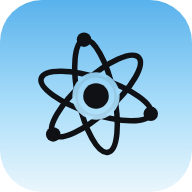
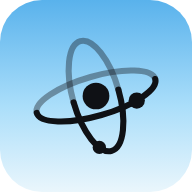
Round 7: new atom mark, softer board colours, drag and move-out for Brainly links and folders, make a task from a link or file
Claude-Session: https://claude.ai/code/session_01VyUsYKRK97fG4vrZNmknrH

Changed region(s): [[0.1562, 0.1562, 0.8438, 0.8125], [0.5312, 0.4375, 0.5625, 0.4688], [0.4375, 0.5312, 0.4688, 0.5625]]

diff --git a/js/brainly.js b/js/brainly.js
@@ -13,6 +13,7 @@ import { listen, canListen } from './speech.js';
 import { crunch } from './sound.js';
 import { summaryFor, ensureSummary, noteText } from './summaries.js';
 import * as google from './google.js';
+import { addTaskFrom } from './taskly.js';
 
 let root, canvas, dash, searchInput, results, peekEl = null, hovered = null;
 const NOTE = 118, FOLDER_W = 150, FOLDER_H = 112;
@@ -140,7 +141,7 @@ function renderDash() {
   const looseItems = links(null).filter(c => matches(c, q));
   const loose = h('div', { class: 'link-list loose', dataset: { drop: 'link-list', accept: 'card', lfolder: '' }, 'data-list': '' }, looseItems.map(linkEl));
   if (!looseItems.length && !q) loose.append(h('p', { class: 'empty-hint' }, 'Paste a link, or drop a PDF or text file here.'));
-  const stack = h('div', { class: 'lf-stack', dataset: { drop: 'lfolder-stack', accept: 'lfolder' }, 'data-list': '' },
+  const stack = h('div', { class: 'lf-stack', dataset: { drop: 'lfolder-stack', accept: 'lfolder', parent: '' }, 'data-list': 'grid' },
     lfChildren(null).filter(f => lfMatches(f, q)).map(linkFolderEl));
   dash.replaceChildren(
     h('div', { class: 'dash-head' }, h('h2', {}, 'My links'),
@@ -160,7 +161,8 @@ function linkEl(c) {
   // SD-F4 / SD-L3: a click previews; the preview has the Open button.
   el.addEventListener('click', e => { if (!e.target.closest('button')) previewItem(el, c.id); });
   el.addEventListener('keydown', e => { if (e.key === 'Enter') previewItem(el, c.id); });
-  el.append(h('button', { class: 'card-del', 'aria-label': 'Delete', title: 'Delete (you can Undo)', onclick: e => { e.stopPropagation(); trashCard(c.id); } }, icon('x')));
+  el.append(h('button', { class: 'link-task', 'aria-label': `Make a task: ${taskTitleFor(c)}`, title: `Make a task: “${taskTitleFor(c)}”`, onclick: e => { e.stopPropagation(); makeTaskFrom(c); } }, icon('checklist')),
+    h('button', { class: 'card-del', 'aria-label': 'Delete', title: 'Delete (you can Undo)', onclick: e => { e.stopPropagation(); trashCard(c.id); } }, icon('x')));
   return el;
 }
 
@@ -227,7 +229,7 @@ function openLinkFolder(fid, fromEl) {
     // Folders and files sit in their own labelled rows, and folders look like folders (tab, colour, count).
     const folderRow = subs.length ? h('div', { class: 'glass-section' },
       h('span', { class: 'glass-section-label' }, icon('folder'), `Folders · ${subs.length}`),
-      h('div', { class: 'glass-grid glass-folders' }, subs.map(x => {
+      h('div', { class: 'glass-grid glass-folders', dataset: { drop: 'lfolder-stack', accept: 'lfolder', parent: f.id }, 'data-list': 'grid' }, subs.map(x => {
         const n = links(x.id).length + lfChildren(x.id).length;
         const t = h('div', { class: 'glass-item glass-sub', tabindex: 0, title: `${x.name}: ${lfCount(x)}`, dataset: { drag: 'lfolder', id: x.id, drop: 'lf-into', accept: 'card lfolder', into: x.id } },
           h('span', { class: 'folder-shape', style: { '--fc': folderTint(x) } }, h('span', { class: 'folder-emoji' }, lfEmoji(x)), n ? h('span', { class: 'folder-badge' }, n) : null),
@@ -236,7 +238,7 @@ function openLinkFolder(fid, fromEl) {
         t.addEventListener('keydown', e => { if (e.key === 'Enter') { glass.fid = x.id; paint(); } });
         return t;
       }))) : null;
-    const grid = h('div', { class: 'glass-grid', dataset: { drop: 'link-list', accept: 'card', lfolder: f.id }, 'data-list': '' },
+    const grid = h('div', { class: 'glass-grid', dataset: { drop: 'link-list', accept: 'card', lfolder: f.id }, 'data-list': 'grid' },
       items.map(c => {
         const t = h('div', { class: 'glass-item', tabindex: 0, dataset: { drag: 'card', id: c.id }, title: c.meta?.url || c.title },
           h('span', { class: 'glass-icon' }, favicon(c)), h('span', { class: 'glass-label' }, c.title));
@@ -252,11 +254,15 @@ function openLinkFolder(fid, fromEl) {
         h('button', { class: 'glass-close', type: 'button', 'aria-label': 'Close folder', onclick: () => closeGlass() }, icon('x'))),
       title,
       h('p', { class: 'glass-sub-line' }, `${lfCount(f)}${parent ? ` · in ${lfPath(parent)}` : ''}`),
+      // While something is being dragged, this strip takes it back out a level.
+      h('div', { class: 'glass-out', dataset: { drop: 'lf-out', accept: 'card lfolder', to: f.parentId && parent ? parent.id : '' } },
+        icon('chevL'), `Drop here to move out to ${parent ? parent.name : 'My links'}`),
       h('div', { class: 'glass-scroll' }, folderRow, fileRow),
       h('div', { class: 'glass-actions' },
         h('button', { class: 'glass-btn', type: 'button', onclick: () => fileIn.click() }, icon('upload'), 'Upload'),
         h('button', { class: 'glass-btn', type: 'button', onclick: () => addLinkFolder(f.id) }, icon('folder'), 'New folder'),
         h('button', { class: 'glass-btn', type: 'button', onclick: e => pickEmoji(e.currentTarget, v => saveLinkFolder(f.id, { emoji: v })) }, h('span', {}, lfEmoji(f)), 'Icon'),
+        parent ? h('button', { class: 'glass-btn', type: 'button', title: `Move this folder out of ${parent.name}`, onclick: () => { const to = lfById(parent.parentId) ? parent.parentId : null; saveLinkFolder(f.id, { parentId: to }); toast(`Moved ${f.name} to ${to ? lfById(to).name : 'My links'}`); } }, icon('chevL'), 'Move out') : null,
         h('button', { class: 'glass-btn danger', type: 'button', onclick: () => { const ff = lfById(glass.fid); closeGlass(); if (ff) deleteLinkFolder(ff); } }, icon('trash'), 'Delete')),
       fileIn);
   };
@@ -291,6 +297,7 @@ function moveIntoLinkFolder(id, lfid, index) {
 registerDrop('link-list', ({ id, data, index }) => moveIntoLinkFolder(id, data.lfolder || null, index));
 // Drop a link on a folder to file it; drop a folder on a folder to nest it.
 registerDrop('lf-into', {
+  hit: ({ kind, x, y, rect }) => kind !== 'lfolder' || (x > rect.left + rect.width * 0.22 && x < rect.right - rect.width * 0.22 && y > rect.top + rect.height * 0.2 && y < rect.bottom - rect.height * 0.2),
   accepts: ({ kind, id, data }) => kind !== 'lfolder' || (id !== data.into && !lfDescendants(id).includes(data.into)),
   drop: ({ kind, id, data }) => {
     if (kind === 'lfolder') { saveLinkFolder(id, { parentId: data.into }); toast(`Moved into ${lfById(data.into)?.name}`); return; }
@@ -298,18 +305,29 @@ registerDrop('lf-into', {
     toast(`Filed in ${lfById(data.into)?.name}`);
   },
 });
-// SD-F5: top-level folders reorder by drag (dropping here also takes a folder back to the top level).
-registerDrop('lfolder-stack', ({ kind, id, index }) => {
+// SD-F5: folders reorder by drag, in the column and inside a glass folder. Dropping in the column's
+// folder grid also takes a folder back to the top level.
+registerDrop('lfolder-stack', ({ kind, id, data, index }) => {
   if (kind !== 'lfolder') return false;
+  const parentId = data.parent || null;
+  if (parentId && (parentId === id || lfDescendants(id).includes(parentId))) return false;
   const list = linkFolders();
   const moving = list.find(f => f.id === id);
   if (!moving) return false;
   const rest = list.filter(f => f.id !== id);
-  const tops = rest.filter(f => !f.parentId);
-  const before = tops[index ?? tops.length];
-  const at = before ? rest.indexOf(before) : rest.length;
-  rest.splice(at, 0, { ...moving, parentId: null });
+  const sibs = rest.filter(f => (f.parentId && lfById(f.parentId) ? f.parentId : null) === parentId);
+  const before = sibs[index ?? sibs.length];
+  const at = before ? rest.indexOf(before) : (sibs.length ? rest.indexOf(sibs.at(-1)) + 1 : rest.length);
+  rest.splice(at, 0, { ...moving, parentId });
   store.set('linkFolders', rest);
+  if ((moving.parentId || null) !== parentId) toast(`Moved ${moving.name} to ${parentId ? lfById(parentId)?.name : 'My links'}`);
+});
+// Out of a folder, one level up (the strip at the top of the glass folder).
+registerDrop('lf-out', ({ kind, id, data }) => {
+  const to = data.to || null;
+  if (kind === 'lfolder') saveLinkFolder(id, { parentId: to });
+  else moveIntoLinkFolder(id, to, null);
+  toast(`Moved out to ${to ? lfById(to)?.name : 'My links'}`);
 });
 
 function addLink(raw) {
@@ -410,6 +428,7 @@ function previewItem(anchor, id) {
     rows.push(h('div', { class: 'muted small' }, `${m.pdf.name} · ${fmtSize(m.pdf.size || 0)} · saved on this device`),
       h('div', { class: 'peek-actions' },
         h('button', { class: 'btn sm primary', onclick: () => openPdf(m.pdf) }, icon('external'), 'Open PDF'),
+        h('button', { class: 'chip', onclick: () => { closePopovers(); openMoveDialog(id); } }, icon('move'), 'Move to…'),
         m.driveUrl ? h('a', { class: 'chip', href: m.driveUrl, target: '_blank', rel: 'noopener noreferrer' }, icon('external'), 'Open in Drive')
           : h('button', { class: 'chip', onclick: async () => {
             status.textContent = 'Uploading to Google Drive…';
@@ -429,9 +448,27 @@ function previewItem(anchor, id) {
         h('button', { class: 'chip', onclick: () => { closePopovers(); openMoveDialog(id); } }, icon('move'), 'Move to…')));
   } else {
     rows.push(h('div', { class: 'peek-text' }, (c.description || '').slice(0, 700) || 'Empty file.'),
-      h('div', { class: 'peek-actions' }, h('button', { class: 'chip', onclick: () => { closePopovers(); openEditor(id, { title: 'Text file' }); } }, icon('pencil'), 'Open')));
+      h('div', { class: 'peek-actions' }, h('button', { class: 'chip', onclick: () => { closePopovers(); openEditor(id, { title: 'Text file' }); } }, icon('pencil'), 'Open'),
+        h('button', { class: 'chip', onclick: () => { closePopovers(); openMoveDialog(id); } }, icon('move'), 'Move to…')));
   }
+  const taskName = taskTitleFor(c);
+  rows.push(h('div', { class: 'peek-task' },
+    h('button', { class: 'chip task-chip', title: `Adds “${taskName}” to To do in Taskly`, onclick: () => { closePopovers(); makeTaskFrom(c); } }, icon('checklist'), 'Make a task'),
+    h('span', { class: 'muted small' }, `“${taskName}”`)));
   popover(anchor, h('div', { class: 'item-peek' }, h('div', { class: 'item-peek-head' }, favicon(c), title), ...rows), { className: 'item-peek-pop' });
+}
+/** A task named for the thing: PDFs and files get reviewed, links get read. */
+function taskTitleFor(c) {
+  const kind = kindOf(c);
+  const name = (c.title || c.meta?.host || 'this').trim();
+  return kind === 'link' ? `Read article from ${name}` : `Review ${name}`;
+}
+function makeTaskFrom(c) {
+  const m = c.meta || {};
+  const description = m.url || (m.pdf ? `PDF in Brainly: ${m.pdf.name}` : m.upload ? `File in Brainly: ${m.upload.name}` : `From Brainly: ${c.title}`);
+  const t = addTaskFrom({ title: taskTitleFor(c), description, meta: { fromCardId: c.id, ...(m.url ? { url: m.url } : {}) } });
+  if (!t) return;
+  toast(`Added to Taskly: ${t.title}`, { action: 'Show', onAction: () => revealCard(t.id) });
 }
 async function openPdf(pdf) {
   const blob = await store.getFile(pdf.fileId);

diff --git a/styles.css b/styles.css
@@ -2285,23 +2285,23 @@ body.board-live, body.board-live * { cursor: grabbing !important; }
 
 /* ---------- Boardly, round 6: white boards, the pattern carries the category colour ---------- */
 .boardly .board-canvas {
-  background-color: #ffffff; border: 1.5px solid color-mix(in srgb, var(--tc) 45%, #e6e8ec);
+  background-color: #ffffff; border: 1px solid color-mix(in srgb, var(--tc) 22%, #e9ebee);
   background-image:
-    radial-gradient(circle, color-mix(in srgb, var(--tc) 78%, white) 1.5px, transparent 2px),
-    radial-gradient(90% 75% at 0% 0%, color-mix(in srgb, var(--tc) 12%, transparent), transparent 62%),
-    radial-gradient(70% 60% at 100% 100%, color-mix(in srgb, var(--tc) 8%, transparent), transparent 65%);
+    radial-gradient(circle, color-mix(in srgb, var(--tc) 34%, white) 1.3px, transparent 1.8px),
+    radial-gradient(90% 75% at 0% 0%, color-mix(in srgb, var(--tc) 6%, transparent), transparent 62%),
+    radial-gradient(70% 60% at 100% 100%, color-mix(in srgb, var(--tc) 4%, transparent), transparent 65%);
   background-size: 26px 26px, 100% 100%, 100% 100%;
   background-position: 13px 13px, 0 0, 0 0;
-  box-shadow: 0 1px 0 rgba(255, 255, 255, 0.8) inset, 0 18px 40px -30px color-mix(in srgb, var(--tc) 70%, black);
+  box-shadow: 0 1px 0 rgba(255, 255, 255, 0.8) inset, 0 18px 40px -32px color-mix(in srgb, var(--tc) 40%, rgba(17, 17, 17, 0.4));
 }
-.boardly .tile { border: 1px solid color-mix(in srgb, var(--ink) 12%, transparent); box-shadow: 0 1px 2px rgba(17, 17, 17, 0.06), 0 10px 22px -12px color-mix(in srgb, var(--tc) 55%, rgba(17, 17, 17, 0.5)); }
+.boardly .tile { border: 1px solid color-mix(in srgb, var(--ink) 12%, transparent); box-shadow: 0 1px 2px rgba(17, 17, 17, 0.06), 0 10px 22px -12px color-mix(in srgb, var(--tc) 30%, rgba(17, 17, 17, 0.45)); }
 .boardly .canvas-empty, .boardly .sel-hint { color: var(--muted); }
 .boardly .vtools { background: rgba(255, 255, 255, 0.96); box-shadow: 0 0 0 1px var(--line), 0 18px 36px -14px rgba(17, 17, 17, 0.35); }
 .boardly .vt-head { color: var(--faint); }
 .boardly .vt-label { color: var(--ink-2); }
 .boardly .vtool:hover, .boardly .vtool:focus-visible { background: var(--well); }
 /* Tags: the active one wears its board's colour */
-.boardly-tabs .tab.active { background: color-mix(in srgb, var(--tab-color) 16%, white); color: var(--ink); box-shadow: inset 0 0 0 1.5px var(--tab-color); }
+.boardly-tabs .tab.active { background: color-mix(in srgb, var(--tab-color) 10%, white); color: var(--ink); box-shadow: inset 0 0 0 1.5px color-mix(in srgb, var(--tab-color) 55%, white); }
 .boardly-tabs .tab.active .tab-dot { box-shadow: 0 0 0 3px color-mix(in srgb, var(--tab-color) 30%, transparent); }
 .boardly-tabs .tab.active .tab-x { color: var(--muted); }
 
@@ -2406,3 +2406,27 @@ body.board-live, body.board-live * { cursor: grabbing !important; }
 .folder-emoji { font-size: 22px; filter: drop-shadow(0 1px 1px rgba(0, 0, 0, 0.15)); }
 .folder-badge { position: absolute; right: -6px; top: -10px; min-width: 20px; height: 20px; padding: 0 5px; border-radius: 999px; display: grid; place-items: center; font-size: 11px; font-weight: 700; color: #fff; background: #0f1115; box-shadow: 0 0 0 2px rgba(255, 255, 255, 0.9); }
 .glass-sub:hover .folder-shape { transform: translateY(-1px); }
+
+/* ---------- Brainly, round 7: moving things around and out of folders ---------- */
+/* Grid lists mark the neighbour instead of inserting a line */
+.drop-before, .drop-after { position: relative; }
+.drop-before::after, .drop-after::after { content: ""; position: absolute; top: 6%; bottom: 6%; width: 3px; border-radius: 3px; background: var(--ink); pointer-events: none; z-index: 3; }
+.drop-before::after { left: -7px; }
+.drop-after::after { right: -7px; }
+/* A folder being dropped into lights up, so nesting is never a surprise */
+.lf-tile.drop-over, .glass-sub.drop-over .folder-shape { outline: 2px solid var(--ink); outline-offset: 3px; }
+.lf-tile.drop-over { transform: scale(1.03); }
+/* "Move out" strip in the glass folder: only there while you drag */
+.glass-out { display: none; align-items: center; justify-content: center; gap: 8px; padding: 12px; border-radius: 14px; border: 1.5px dashed color-mix(in srgb, var(--ink) 35%, transparent); color: var(--ink-2); font-weight: 600; font-size: 13px; background: rgba(255, 255, 255, 0.55); }
+.glass-out svg { width: 16px; height: 16px; }
+body.is-dragging .glass-out { display: flex; animation: outIn .18s var(--ease, ease) both; }
+.glass-out.drop-over { border-style: solid; border-color: var(--ink); background: #fff; color: var(--ink); }
+@keyframes outIn { from { opacity: 0; transform: translateY(-4px); } }
+/* Make a task: a quiet button on each row, and a line in the preview */
+.link-card .link-task { position: absolute; right: 30px; top: 50%; transform: translateY(-50%); width: 24px; height: 24px; border-radius: 8px; display: grid; place-items: center; color: var(--muted); background: #fff; border: 1px solid var(--line); opacity: 0; transition: opacity .15s; }
+.link-card .link-task svg { width: 14px; height: 14px; }
+.link-card:hover .link-task, .link-card:focus-within .link-task { opacity: 1; }
+.link-card .link-task:hover { color: var(--ink); border-color: var(--ink); }
+@media (hover: none) { .link-card .link-task { opacity: 1; } }
+.peek-task { display: flex; align-items: center; gap: 8px; flex-wrap: wrap; padding-top: 10px; margin-top: 4px; border-top: 1px solid var(--line); }
+.peek-task .muted { overflow: hidden; text-overflow: ellipsis; white-space: nowrap; max-width: 100%; }

diff --git a/js/dnd.js b/js/dnd.js
@@ -81,12 +81,16 @@ export function initDnd(navigate) {
     const stack = document.elementsFromPoint(drag.x, drag.y);
     for (const node of stack) {
       if (node.classList?.contains('drag-ghost') || drag.ghost.contains(node)) continue;
-      const z = node.closest?.('[data-drop]');
-      if (!z) continue;
-      const accept = (z.dataset.accept || 'card').split(' ');
-      if (!accept.includes(drag.kind)) continue;
-      if (z === drag.el || drag.el.contains(z)) continue;
-      return z;
+      // Walk outwards: a zone can pass the drop to the zone around it (spec.hit returns false),
+      // e.g. a folder only takes a folder in its middle, and its edges reorder the list instead.
+      let z = node.closest?.('[data-drop]');
+      while (z) {
+        const accept = (z.dataset.accept || 'card').split(' ');
+        const own = z === drag.el || drag.el.contains(z);
+        const spec = handlers.get(z.dataset.drop);
+        if (!own && accept.includes(drag.kind) && (!spec?.hit || spec.hit({ kind: drag.kind, id: drag.id, x: drag.x, y: drag.y, rect: z.getBoundingClientRect(), data: z.dataset }) !== false)) return z;
+        z = z.parentElement?.closest('[data-drop]');
+      }
     }
     return null;
   }
@@ -104,6 +108,7 @@ export function initDnd(navigate) {
         drag.denied = !ok;
       }
       if (!z || !z.hasAttribute('data-list')) drag.placeholder.remove();
+      if (z?.dataset.list !== 'grid') clearGridMark();
     }
     // Spring-loaded navigation: hover a navigator pill while dragging to switch tools.
     const spring = document.elementsFromPoint(drag.x, drag.y).find(n => n.closest?.('[data-spring-route]'))?.closest('[data-spring-route]');
@@ -116,23 +121,34 @@ export function initDnd(navigate) {
   }
 
   function listIndex(z) {
-    // data-list="x" marks a left-to-right list (e.g. Timely's planning lists).
-    const horizontal = z.dataset.list === 'x';
+    // data-list="x" marks a left-to-right list (e.g. Timely's planning lists); data-list="grid" a wrapping grid.
+    const mode = z.dataset.list;
     const items = [...z.querySelectorAll('[data-drag]')].filter(n => n !== drag.el && n.parentElement && n.closest('[data-drop]') === z && n.dataset.drag === drag.kind);
     let idx = items.length, before = null;
     for (let i = 0; i < items.length; i++) {
       const r = items[i].getBoundingClientRect();
-      if (horizontal ? drag.x < r.left + r.width / 2 : drag.y < r.top + r.height / 2) { idx = i; before = items[i]; break; }
+      const hit = mode === 'x' ? drag.x < r.left + r.width / 2
+        : mode === 'grid' ? drag.y < r.top || (drag.y <= r.bottom && drag.x < r.left + r.width / 2)
+        : drag.y < r.top + r.height / 2;
+      if (hit) { idx = i; before = items[i]; break; }
     }
     return { idx, before, items };
   }
   function placeLine(z) {
+    if (z.dataset.list === 'grid') {
+      // In a grid a line would take a cell and shuffle everything; mark the neighbour instead.
+      const { before, items } = listIndex(z);
+      const mark = before || items.at(-1);
+      if (drag.gridMark !== mark || drag.gridAfter !== !before) { clearGridMark(); drag.gridMark = mark; drag.gridAfter = !before; mark?.classList.add(before ? 'drop-before' : 'drop-after'); }
+      return;
+    }
     drag.placeholder.classList.toggle('vertical', z.dataset.list === 'x');
     const { before, items } = listIndex(z);
     const host = before ? before.parentElement : (items.at(-1)?.parentElement || z.querySelector('[data-list-body]') || z);
     if (before) host.insertBefore(drag.placeholder, before);
     else host.append(drag.placeholder);
   }
+  function clearGridMark() { drag?.gridMark?.classList.remove('drop-before', 'drop-after'); if (drag) drag.gridMark = null; }
 
   function info(z) {
     const canvasRect = z.getBoundingClientRect();
@@ -157,6 +173,7 @@ export function initDnd(navigate) {
     }
     z?.classList.remove('drop-over', 'drop-deny');
     drag.placeholder.remove();
+    clearGridMark();
     const ghost = drag.ghost, el = drag.el;
     document.body.classList.remove('is-dragging');
     if (accepted || !el.isConnected) {

diff --git a/js/util.js b/js/util.js
@@ -297,7 +297,7 @@ export function editInline(el, { multiline = false, onCommit, selectAll = true }
 const S = (inner, vb = 24) => `<svg viewBox="0 0 ${vb} ${vb}" fill="none" stroke="currentColor" stroke-width="1.6" stroke-linecap="round" stroke-linejoin="round" aria-hidden="true">${inner}</svg>`;
 export const ICONS = {
   // Atom: three fine orbits, tilted, with an electron at the tip of each and a clear gap around the nucleus.
-  atom: '<svg viewBox="0 0 24 24" fill="none" stroke="currentColor" stroke-width="1" aria-hidden="true" class="atom-mark"><defs><mask id="sedi-atom-m"><rect x="-2" y="-2" width="28" height="28" fill="#fff"/><circle cx="12" cy="12" r="3.6" fill="#000"/></mask></defs><g mask="url(#sedi-atom-m)"><ellipse cx="12" cy="12" rx="9.9" ry="3.1" transform="rotate(18 12 12)"/><ellipse cx="12" cy="12" rx="9.9" ry="3.1" transform="rotate(78 12 12)"/><ellipse cx="12" cy="12" rx="9.9" ry="3.1" transform="rotate(138 12 12)"/></g><circle cx="12" cy="12" r="2.2" fill="currentColor" stroke="none"/><circle cx="21.42" cy="15.06" r="1.25" fill="currentColor" stroke="none"/><circle cx="9.94" cy="2.32" r="1.25" fill="currentColor" stroke="none"/><circle cx="4.64" cy="18.62" r="1.25" fill="currentColor" stroke="none"/></svg>',
+  atom: '<svg viewBox="0 0 24 24" fill="none" stroke="currentColor" stroke-width="1.1" stroke-linecap="round" aria-hidden="true" class="atom-mark"><path d="M1.81 14.92A10.6 3.4 -16 0 1 22.19 9.08" opacity="0.38"/><path d="M8.15 13.10A4.0 9.8 -16 0 1 15.85 10.90" opacity="0.38"/><circle cx="12" cy="12" r="2.3" fill="currentColor" stroke="none"/><path d="M22.19 9.08A10.6 3.4 -16 0 1 1.81 14.92" /><circle cx="19.01" cy="12.78" r="1.4" fill="currentColor" stroke="none"/><path d="M15.85 10.90A4.0 9.8 -16 0 1 8.15 13.10" /><circle cx="12.58" cy="20.84" r="1.15" fill="currentColor" stroke="none"/></svg>',
   // Universal Board: one clean launch swoosh with a star at its tip.
   galaxy: '<svg viewBox="0 0 24 24" fill="currentColor" aria-hidden="true"><path class="uni-swoosh" d="M2.2 17.4C7.6 9.6 14.4 5.6 22.2 4.6c-6.9 2.2-12.6 6.6-16.7 13.3-1.3.4-2.4.3-3.3-.5z"/><path class="uni-star" d="M19.6 2.2l.5 1.6 1.6.5-1.6.5-.5 1.6-.5-1.6-1.6-.5 1.6-.5z"/></svg>',
   flag: S('<path d="M6 20.5V4.5"/><path d="M6 5h11l-2.5 4L17 13H6"/>'),

diff --git a/js/taskly.js b/js/taskly.js
@@ -154,6 +154,13 @@ export function completeTask(id) {
   routeCard(id, { tool: 'taskly', type: 'task', meta: { columnId: 'completed', order: colCards('completed').length, ...columnMeta(c, 'completed') }, log: 'Completed' });
   makeRoomInCompleted(id);
 }
+/** Add a To do card made from something else (a Brainly link, PDF or file). Returns the card, or null when To do is full. */
+export function addTaskFrom({ title, description = '', meta = {} }) {
+  if (colCards('todo').length >= capOf('todo')) { toast('To do is full. Finish, move or delete a task first.'); return null; }
+  const card = store.createCard({ type: 'task', tool: 'taskly', title, description, meta: { ...meta, columnId: 'todo', order: -1, ...columnMeta(null, 'todo') } });
+  reorder(colCards('todo'), card.id, 0);
+  return card;
+}
 export const todoCards = () => colCards('todo');
 export const todoCapacity = () => capOf('todo');
 

diff --git a/sw.js b/sw.js
@@ -1,7 +1,7 @@
 // Sedi service worker: caches the app shell so Sedi opens instantly and works fully offline.
 // Bump VERSION whenever app files change so browsers pick up the new build.
 
-const VERSION = 'sedi-v1.7.0';
+const VERSION = 'sedi-v1.8.0';
 const SHELL = [
   './', './index.html', './styles.css', './app.js', './manifest.webmanifest', './icon.svg', './icon-192.png', './icon-512.png',
   './brain/master_library.json',
